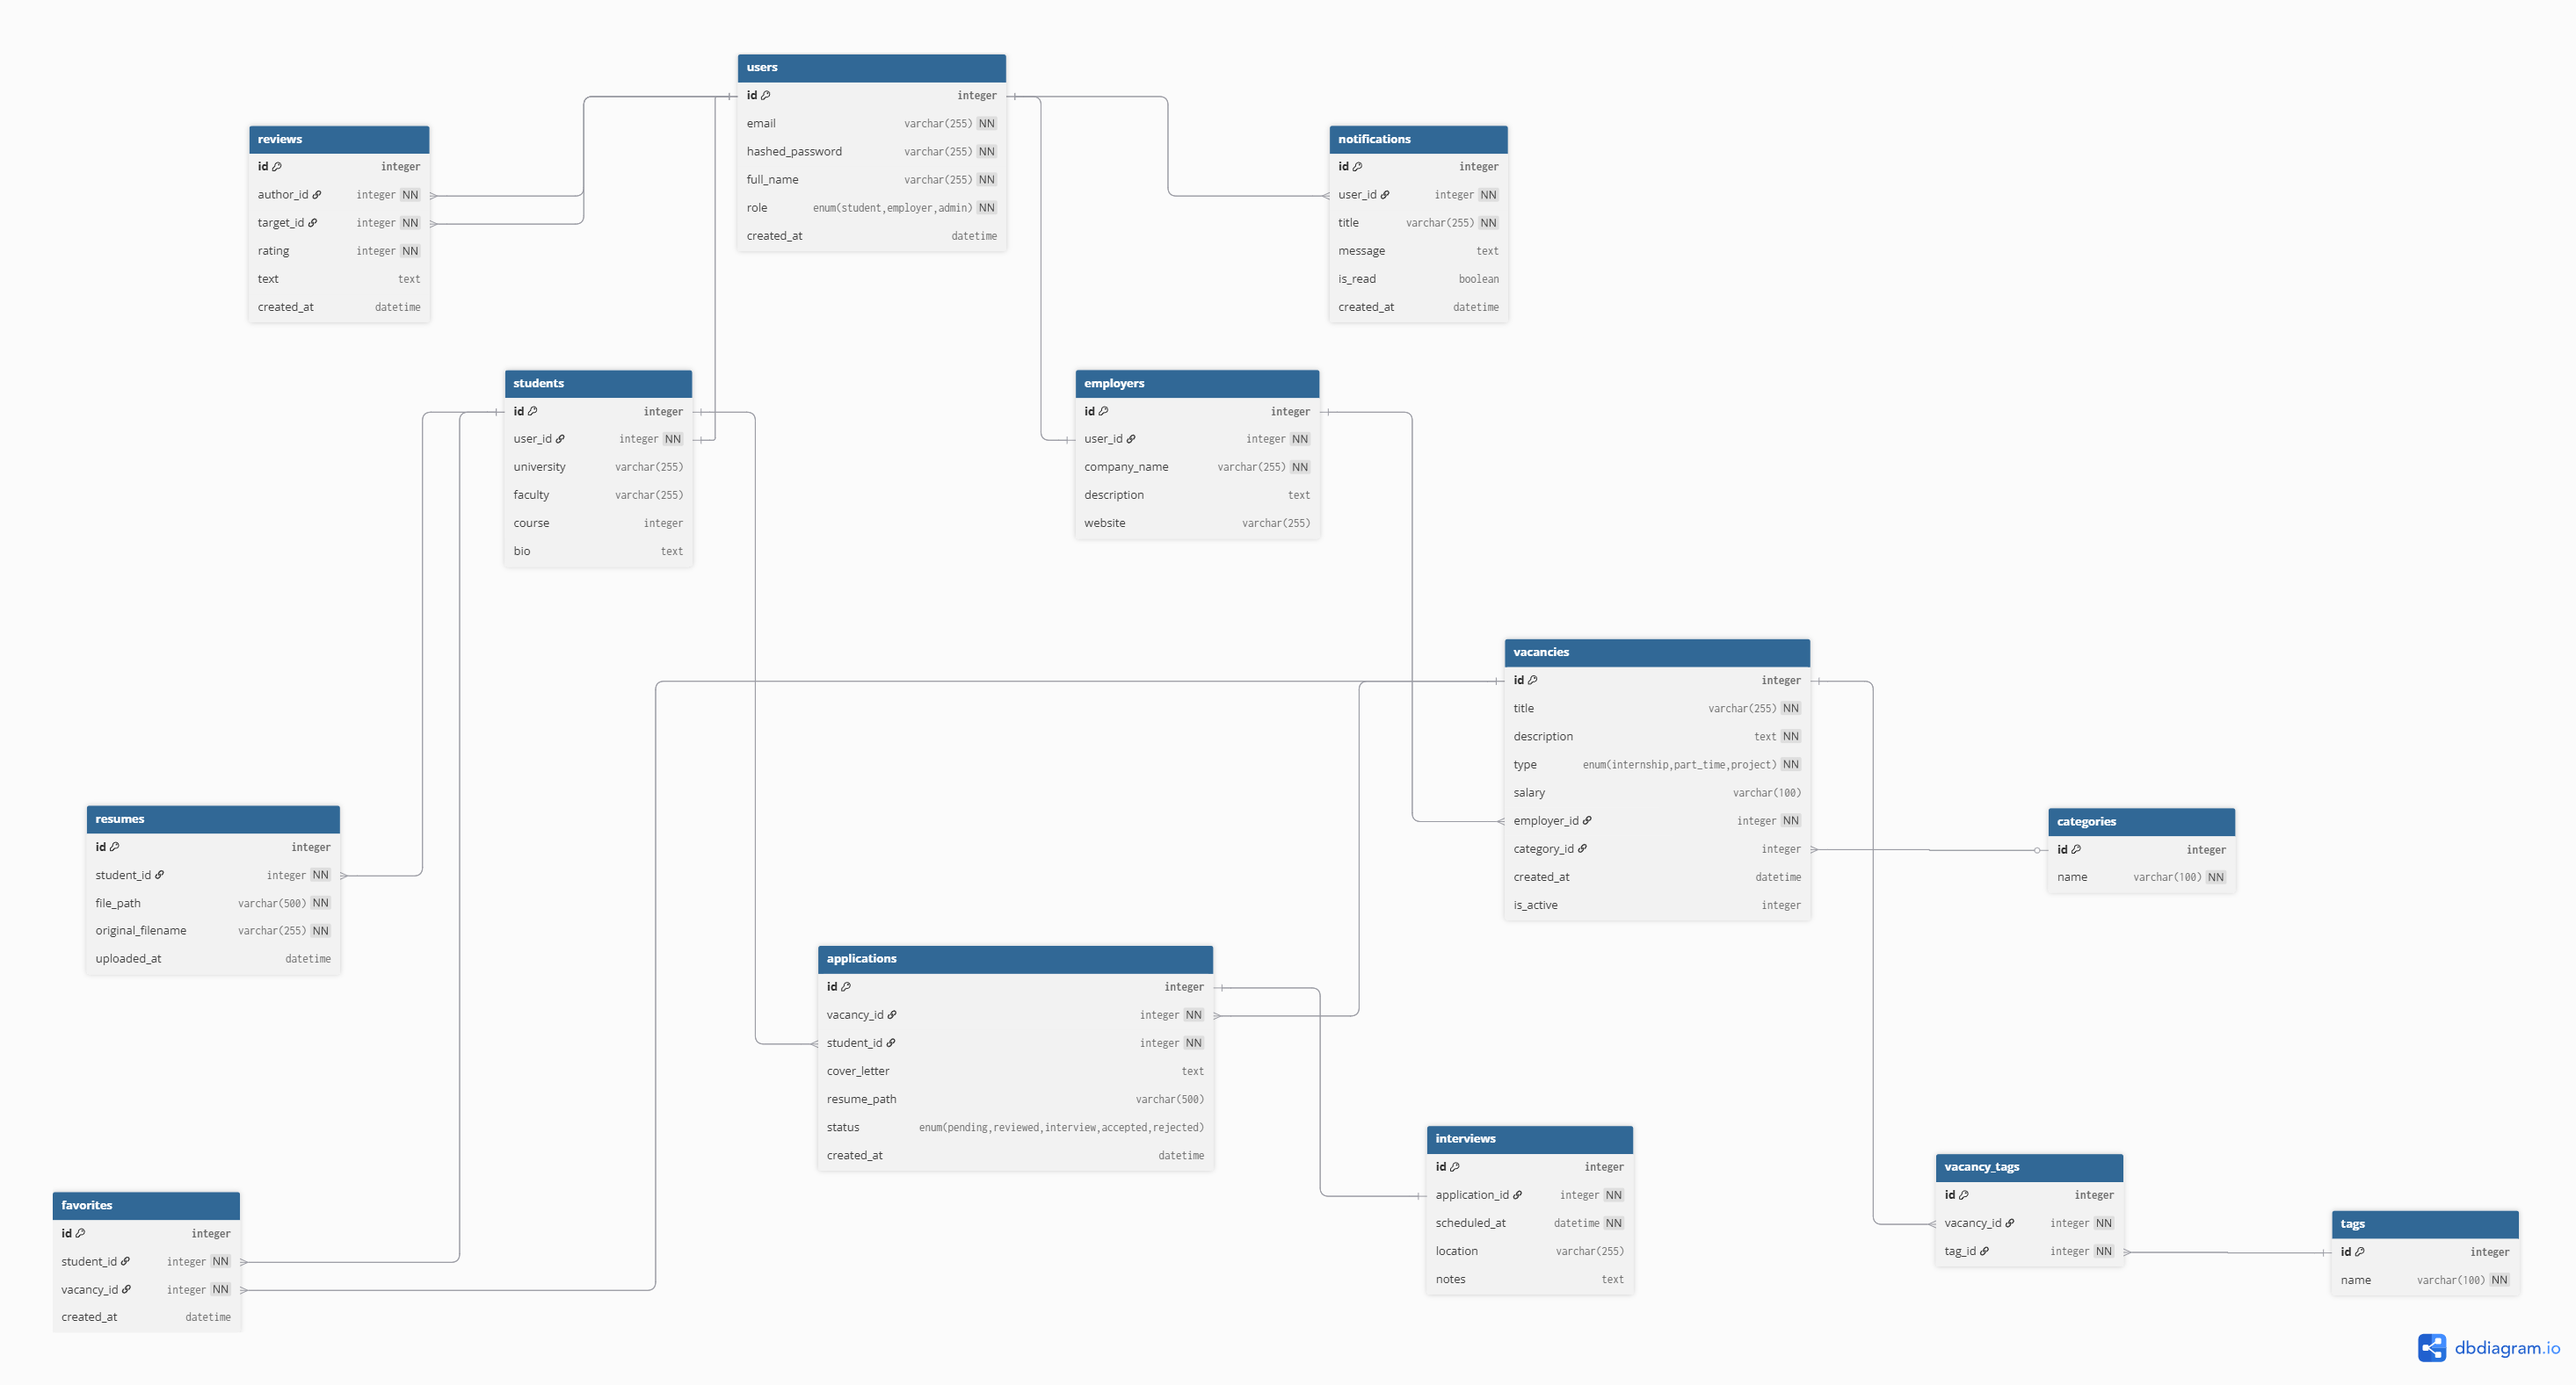
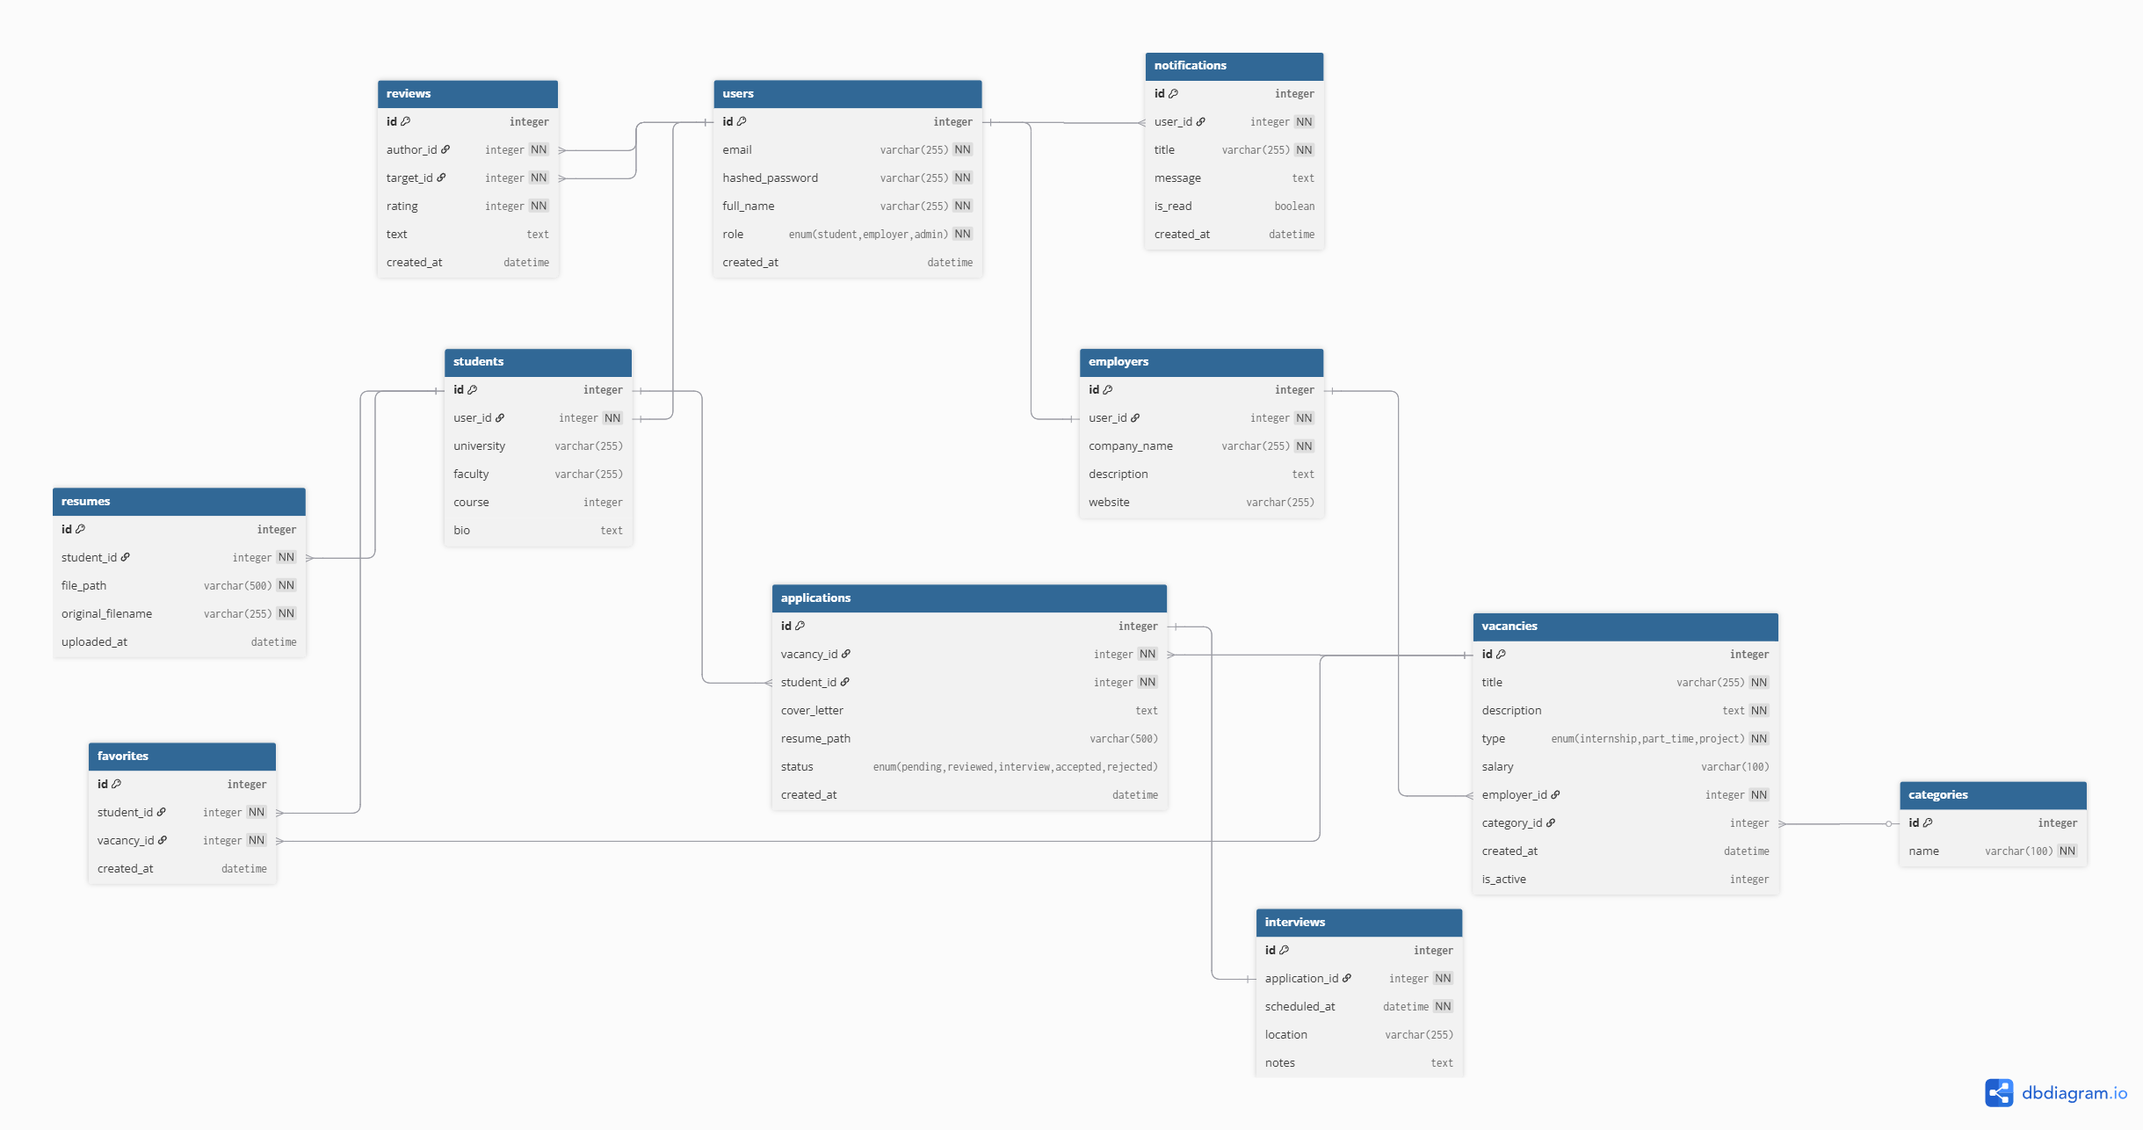
docs: update README and unnecessary entities have been removed from the database

diff --git a/backend/app/models/vacancy.py b/backend/app/models/vacancy.py
@@ -29,4 +29,3 @@ class Vacancy(Base):
     category = relationship("Category", back_populates="vacancies")
     applications = relationship("Application", back_populates="vacancy")
     favorites = relationship("Favorite", back_populates="vacancy")
-    vacancy_tags = relationship("VacancyTag", back_populates="vacancy")

diff --git a/backend/app/models/__init__.py b/backend/app/models/__init__.py
@@ -9,5 +9,3 @@ from app.models.review import Review
 from app.models.notification import Notification
 from app.models.favorite import Favorite
 from app.models.interview import Interview
-from app.models.tag import Tag
-from app.models.vacancy_tag import VacancyTag

diff --git a/README.md b/README.md
@@ -1,3 +1,112 @@
 # UniJobs
 
-Платформа поиска временной работы и стажировок в университете.
+Платформа поиска временной работы и стажировок в университете
+Студенты ищут вакансии, подают заявки с резюме и отслеживают статус. Работодатели размещают вакансии и управляют откликами.
+
+## Реализация
+
+В проекте реализован полноценный ключевой сценарий:
+
+Главная страница -> Список вакансий (поиск, фильтры по типу и категории) -> Карточка вакансии (название, имя работодателя, тип, заработная плата, дата)
+
+- **Студент:** Авторизация / Регистрация -> Подача заявки (резюме + сопроводительное письмо) -> Мои заявки (отслеживание статуса)
+- **Работодатель:** Авторизация / Регистрация -> Создание вакансии (название, описание, тип, категория, заработная плата) -> Мои вакансии -> Отклики (изменеие статуса заявки)
+
+## Стек
+
+- **Бэкенд:** Python 3.11 / FastAPI / SQLAlchemy 2.0 / SQLite
+- **Фронтенд:** React 18 / Bootstrap 5 / React Router v6 / Axios
+- **Тесты:** pytest + httpx (FastAPI TestClient, SQLite in-memory)
+- **Авторизация:** JWT (python-jose) + bcrypt (passlib)
+
+## База данных
+
+11 сущностей, связанных между собой (1:1, 1:M, M2M):
+
+| Таблица | Описание | Связи |
+|---|---|---|
+| **users** | Аккаунты (email, пароль, роль: student/employer/admin) | students, employers, reviews, notifications |
+| **students** | Профиль студента (университет, факультет, курс, био) | 1:1 с users |
+| **employers** | Профиль работодателя (компания, описание, сайт) | 1:1 с users |
+| **categories** | Справочник категорий вакансий | vacancies |
+| **vacancies** | Вакансии (название, описание, тип, зарплата, активность) | applications, favorites; принадлежит employer, category |
+| **applications** | Заявки студентов (сопроводительное письмо, резюме, статус) | принадлежит student, vacancy; interviews |
+| **resumes** | Загруженные файлы резюме (путь, оригинальное имя) | принадлежит student |
+| **reviews** | Отзывы между пользователями (рейтинг, текст) | author users, target users |
+| **notifications** | Уведомления (заголовок, сообщение, прочитано/нет) | принадлежит user |
+| **favorites** | Избранные вакансии студента | student <-> vacancy (M2M) |
+| **interviews** | Собеседование (дата, место, заметки) | 1:1 с application |
+
+Статусы заявок: `pending`-> `reviewed`-> `interview`-> `accepted` / `rejected`
+
+Визуализация схемы БД — `db_diagram.png` (создана через dbdiagram.io)
+
+> [!NOTE]
+> Данные хранятся в файле `unijobs.db` (SQLite). Если файла нет, он создаётся автоматически при первом запуске бэкенда.
+
+# Индивидуальное задание. Тесты API
+
+9 автотестов проверяют три модуля: авторизацию, вакансии и заявки. Покрыты не только успешные сценарии, но и сценарии с ошибками (валидация данных, проверка прав доступа)
+
+- **conftest.py (инфраструктура)** — SQLite in-memory, таблицы пересоздаются перед каждым тестом, фикстуры генерируют JWT-токены студента и работодателя
+- **test_auth.py** (4 теста) — регистрация студента (201), дубликат email (400), успешный логин (200), неверный пароль (401)
+- **test_vacancies.py** (3 теста) — создание вакансии работодателем (201), пустой список (200), запрет создания студентом (403)
+- **test_applications.py** (2 теста) — подача заявки студентом (201, статус pending), запрет подачи работодателем (403)
+
+Запуск: `cd backend && pytest -v`
+
+
+## Структура проекта
+
+```
+backend/
+  app/
+    main.py              — точка входа FastAPI, CORS, подключение роутеров
+    config.py            — настройки (DATABASE_URL, SECRET_KEY, ALGORITHM)
+    database.py          — SQLAlchemy engine, SessionLocal, Base
+    dependencies.py      — get_current_user (OAuth2 + JWT)
+    models/              — 11 ORM-моделей
+    schemas/             — Pydantic-схемы (user, vacancy, application)
+    routers/             — API эндпоинты (auth, vacancies, applications)
+    services/auth.py     — хэширование паролей, создание/верификация JWT
+    uploads/             — загруженные файлы резюме
+  tests/                 — 9 автотестов
+  requirements.txt       — список зависимостей
+
+frontend/
+  src/
+    App.js                    — роутинг (React Router v6)
+    api/client.js              — axios instance + JWT interceptor
+    context/AuthContext.js     — контекст авторизации (login, register, logout)
+    components/
+      Navbar.js               — адаптивная навигация (роли, toggle меню)
+      VacancyCard.js           — карточка вакансии
+      Footer.js                — футер
+    pages/
+      HomePage.js              — главный баннер + последние вакансии
+      LoginPage.js             — форма входа
+      RegisterPage.js          — форма регистрации (студент/работодатель)
+      VacancyListPage.js       — список вакансий (поиск, фильтры, пагинация)
+      VacancyDetailPage.js     — детальная карточка вакансии
+      ApplyPage.js             — подача заявки (резюме + письмо)
+      MyApplicationsPage.js    — заявки студента (статусы)
+      CreateVacancyPage.js     — создание вакансии (работодатель)
+      MyVacanciesPage.js       — вакансии работодателя
+      VacancyApplicationsPage.js — отклики на вакансию (смена статуса)
+README.md
+db_diagram.png
+```
+
+## Запуск
+
+```bash
+# Бэкенд
+cd backend
+pip install -r requirements.txt
+uvicorn app.main:app --reload          # http://localhost:8000
+
+# Фронтенд
+cd frontend
+npm install
+npm start                              # http://localhost:3000
+```
